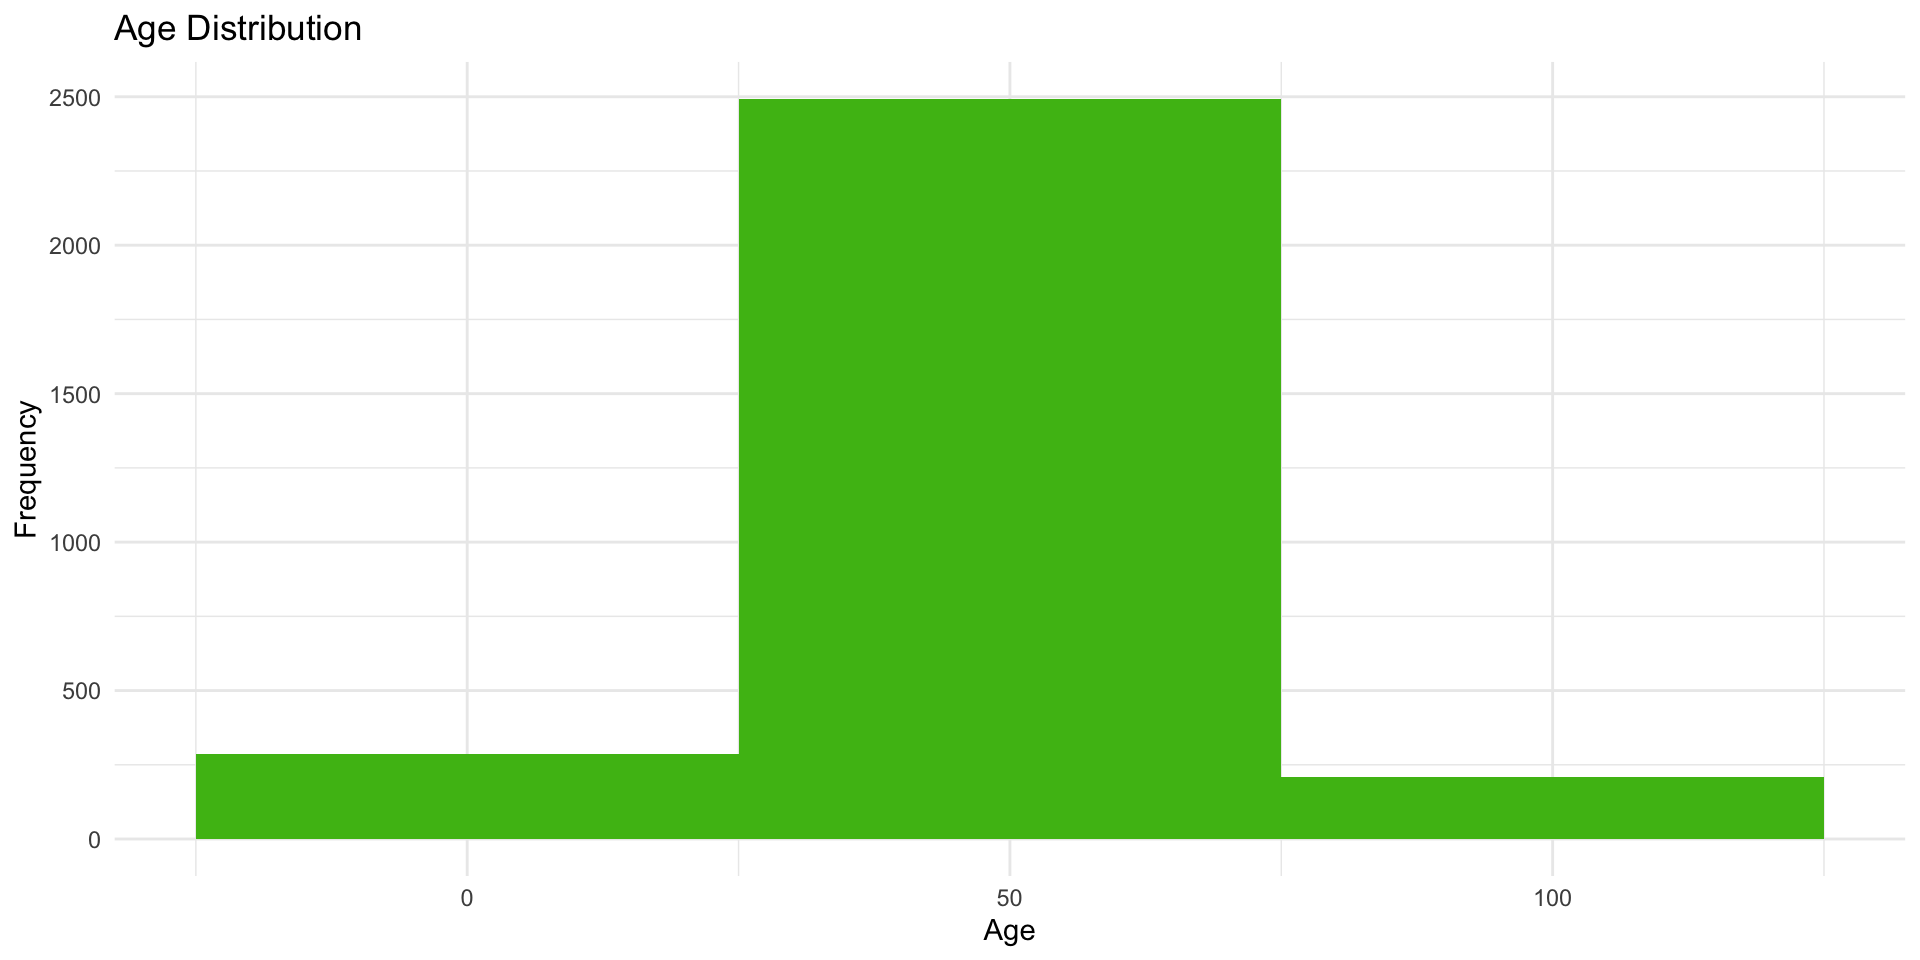
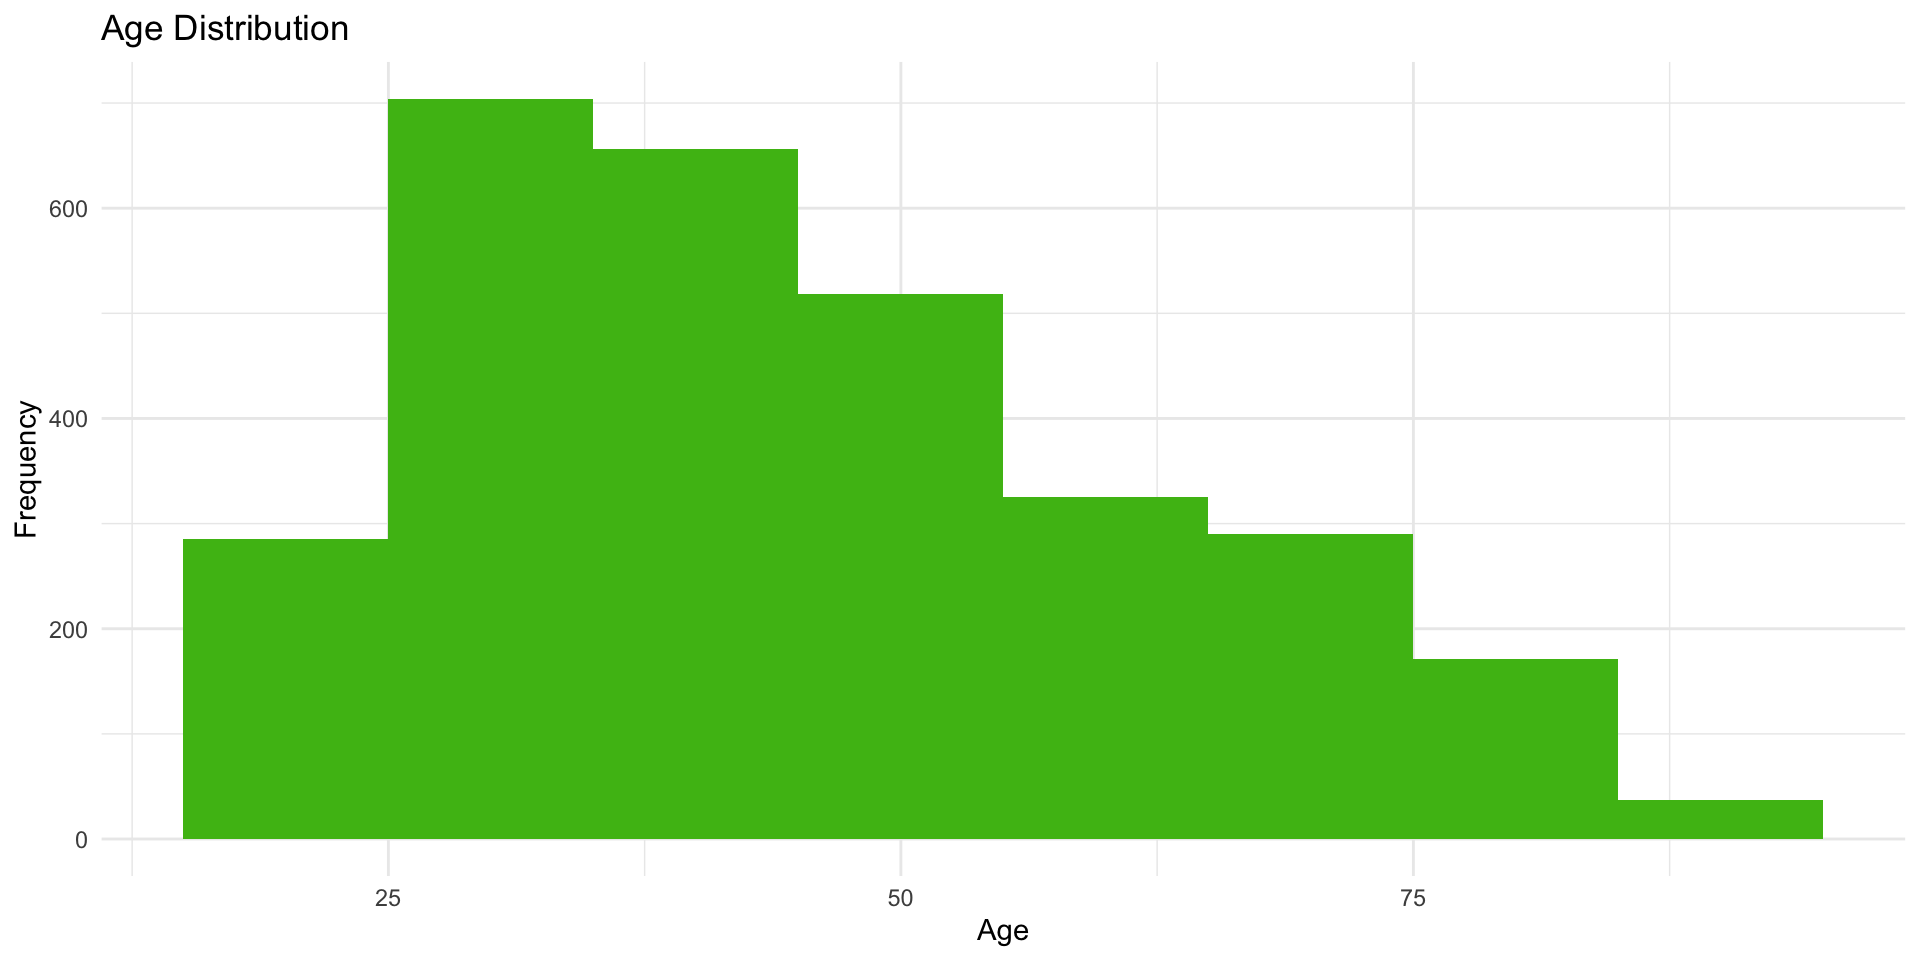
week 3 updates on histogram, boxplot typos

diff --git a/docs/slides/week3.html b/docs/slides/week3.html
@@ -620,12 +620,12 @@
 </div></div>
 </div>
 <div id="tabset-3-4">
-<p>Alternatively, you can make the bins wider to include more observations. Here, we set the <code>binwidth = 50</code>, which makes the bins span 50 units.</p>
+<p>Alternatively, you can make the bins wider to include more observations. Here, we set the <code>binwidth = 10</code>, which makes the bins span 10 units.</p>
 <div class="cell columns column-output-location">
 <div class="column">
 <div class="sourceCode cell-code" id="cb8"><pre class="sourceCode numberSource r number-lines code-with-copy"><code class="sourceCode r"><span id="cb8-1"><a></a><span class="fu">ggplot</span>(<span class="at">data =</span> attain, <span class="fu">aes</span>(<span class="at">x =</span> age)) <span class="sc">+</span></span>
-<span id="cb8-2"><a></a>  <span class="co"># set binwidth to 50</span></span>
-<span id="cb8-3"><a></a>  <span class="fu">geom_histogram</span>(<span class="at">binwidth =</span> <span class="dv">50</span>, <span class="at">fill =</span> <span class="st">"#4CBB17"</span>) <span class="sc">+</span></span>
+<span id="cb8-2"><a></a>  <span class="co"># set binwidth to 10</span></span>
+<span id="cb8-3"><a></a>  <span class="fu">geom_histogram</span>(<span class="at">binwidth =</span> <span class="dv">10</span>, <span class="at">fill =</span> <span class="st">"#4CBB17"</span>) <span class="sc">+</span></span>
 <span id="cb8-4"><a></a>  <span class="fu">labs</span>(</span>
 <span id="cb8-5"><a></a>    <span class="at">title =</span> <span class="st">"Age Distribution"</span>,</span>
 <span id="cb8-6"><a></a>    <span class="at">x =</span> <span class="st">"Age"</span>,</span>
@@ -654,7 +654,7 @@
 <div id="tabset-4-1">
 <ul>
 <li>X and Y variables are ordered in some way (ordinal, interval, ratio)</li>
-<li>Useful when you want to show change in a <code>Y</code> variable over your <code>X</code> variable</li>
+<li>Most useful to show change in a <code>Y</code> variable over your <code>X</code> variable</li>
 <li>May not work well with missing values</li>
 <li>We can do this using the <code>geom_line()</code> function</li>
 </ul>
@@ -726,7 +726,7 @@
 </section>
 <section id="boxplot-geom_boxplot" class="slide level2 smaller">
 <h2>Boxplot: geom_boxplot()</h2>
-<p>The <strong>boxplot</strong> compactly displays the distribution of a continuous variable. It visualises five summary statistics (the median, two hinges and two whiskers), and all “outlying” points individually.</p>
+<p>The <strong>boxplot</strong> compactly displays the distribution of a continuous variable, usually by a categorical one. It visualises five summary statistics (the median, 25th and 75th percentile form the box), and all “outlying” points individually.</p>
 <div class="panel-tabset">
 <ul id="tabset-6" class="panel-tabset-tabby"><li><a data-tabby-default="" href="#tabset-6-1">What is a boxplot?</a></li><li><a href="#tabset-6-2"><code>geom_boxplot()</code></a></li></ul>
 <div class="tab-content">
